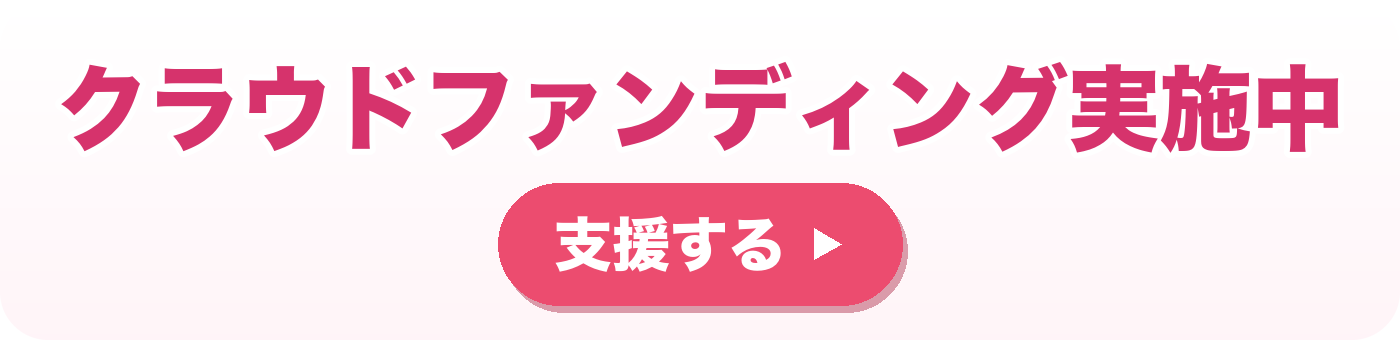
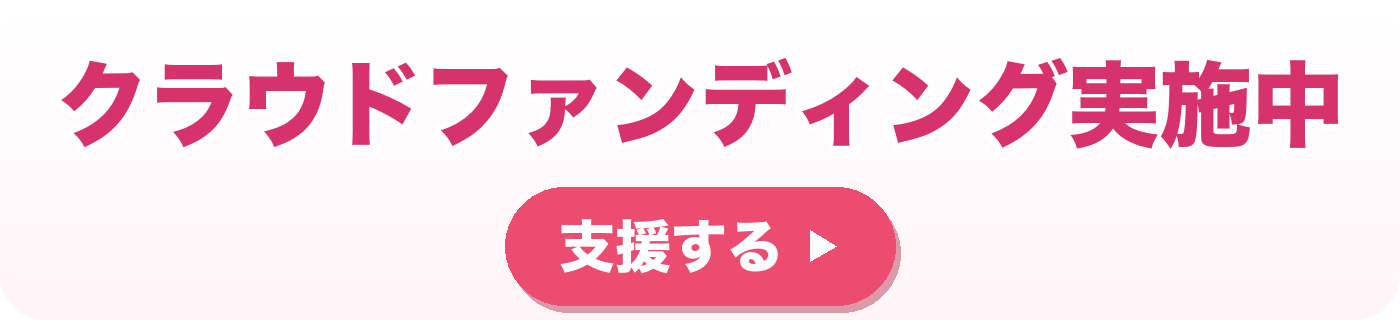
v1.25: タイトル文字間隔を全状態統一／バナー同寸化／広告募集バナー追加／読込エラー表示
- タイトル(しそチャンNET)の文字間隔をem基準(0.077em)に統一。起動画面・ヘッダー・
  縦横どの状態でも同じ間隔（横向きの狭い間隔に合わせ、横がさらに狭くなることもない）
- バナー画像サイズを統一：横向き全て1400x320、縦向き全て2300x210
- 新バナー「バナー広告募集中」を追加（ゴールド地＋白太ゴシック、左右にAI生成の建物写真）
- 番組表が取得できず読み込みが終わらない時：約12秒(4回失敗)後に
  「番組表を読み込めませんでした」＋再読み込みボタン（押すと再取得＝確実）を映像エリアに表示。
  15秒毎に自動再試行し通信回復で自動表示。空データでも再生/描画は破綻しないようガード
- 起動画面 1.24→1.25

diff --git a/index.html b/index.html
@@ -36,7 +36,7 @@ body{background:var(--forest);color:var(--text);font-family:'Zen Kaku Gothic New
 
 /* ══ 電源画面 ══ */
 #power-screen{position:fixed;inset:0;z-index:999;background:var(--forest);display:flex;flex-direction:column;align-items:center;justify-content:center;gap:20px;}
-.ps-logo-main{font-family:'CorpLogoB','Zen Kaku Gothic New',sans-serif;font-size:32px;font-weight:700;color:var(--white);letter-spacing:4px;}
+.ps-logo-main{font-family:'CorpLogoB','Zen Kaku Gothic New',sans-serif;font-size:32px;font-weight:700;color:var(--white);letter-spacing:0.077em;}
 /* NET(英字)はこの書体だとカナより小さく見えるので1.125倍。ベースライン-0.062em下げてカナと高さ(中心)を合わせる */
 .ps-logo-main em{color:var(--gold2);font-style:normal;font-size:1.125em;vertical-align:-0.062em;}
 .ps-version{font-size:11px;color:var(--gold2);letter-spacing:2px;margin-top:12px;font-weight:600;}
@@ -64,7 +64,7 @@ body{background:var(--forest);color:var(--text);font-family:'Zen Kaku Gothic New
 .test-badge{border:1.5px solid var(--gold2);color:var(--gold2);font-size:10px;font-weight:700;letter-spacing:1px;padding:2px 7px;border-radius:4px;white-space:nowrap;background:rgba(0,0,0,0.15);flex-shrink:0;}
 .ps-test-badge{display:inline-block;border:2px solid var(--gold2);color:var(--gold2);font-size:13px;font-weight:700;letter-spacing:2px;padding:5px 16px;border-radius:6px;margin-top:16px;}
 .time-bar{display:none;}
-.h-logo-main{font-family:'CorpLogoB','Zen Kaku Gothic New',sans-serif;font-size:20px;font-weight:700;color:var(--white);letter-spacing:2px;}
+.h-logo-main{font-family:'CorpLogoB','Zen Kaku Gothic New',sans-serif;font-size:20px;font-weight:700;color:var(--white);letter-spacing:0.077em;}
 .h-logo-main em{color:var(--gold2);font-style:normal;font-size:1.125em;vertical-align:-0.062em;}
 .h-right{display:flex;align-items:center;gap:14px;}
 .h-datetime{display:flex;flex-direction:column;align-items:flex-end;}
@@ -132,6 +132,11 @@ body{background:var(--forest);color:var(--text);font-family:'Zen Kaku Gothic New
 .ended-icon{font-size:38px;opacity:0.5;}
 .ended-ttl{font-size:17px;font-weight:700;color:rgba(255,255,255,0.75);letter-spacing:2px;text-align:center;padding:0 20px;}
 .ended-sub{font-size:12px;color:rgba(255,255,255,0.35);letter-spacing:1px;}
+/* 番組表の読み込み中/失敗オーバーレイ＋再読み込みボタン */
+#loaderr-ov{position:absolute;inset:0;z-index:36;background:var(--forest);display:none;flex-direction:column;align-items:center;justify-content:center;gap:12px;padding:0 20px;text-align:center;}
+#loaderr-sub{max-width:340px;line-height:1.7;}
+.reload-btn{margin-top:6px;display:inline-flex;align-items:center;gap:8px;background:var(--gold);color:var(--forest);border:none;cursor:pointer;font-size:16px;font-weight:700;padding:13px 30px;border-radius:6px;font-family:inherit;-webkit-tap-highlight-color:transparent;}
+.reload-btn:active{opacity:0.85;}
 .sw-spinner{width:34px;height:34px;border:3px solid rgba(255,255,255,0.15);border-top-color:var(--gold);border-radius:50%;animation:spin .8s linear infinite;}
 @keyframes spin{to{transform:rotate(360deg)}}
 .sw-lbl{font-size:11px;color:rgba(255,255,255,0.5);letter-spacing:2px;}
@@ -534,7 +539,7 @@ body.fs-open .player-wrap.expanded{
     padding-right:max(10px, env(safe-area-inset-right));
   }
   .h-date{display:none;}
-  .h-logo-main{font-size:13px;letter-spacing:1px;}
+  .h-logo-main{font-size:13px;}
   .h-time{font-size:14px;}
   .onair-badge{padding:2px 6px;font-size:8px;}
   /* ●LIVEと番組タイトルバー：コンパクト表示 */
@@ -784,7 +789,7 @@ body.cursor-hidden,body.cursor-hidden *{cursor:none !important;}
 <div id="power-screen">
   <div style="display:flex;flex-direction:column;align-items:center;gap:0;">
     <div class="ps-logo-main">しそチャン<em>NET</em></div>
-    <div class="ps-version">version 1.24</div>
+    <div class="ps-version">version 1.25</div>
     <div class="ps-test-badge">試験放送中</div>
   </div>
   <div style="height:18px"></div>
@@ -837,6 +842,11 @@ body.cursor-hidden,body.cursor-hidden *{cursor:none !important;}
           <div class="ended-icon">📺</div>
           <div class="ended-ttl">本日の放送は終了しました</div>
           <div class="ended-sub">次の放送は 06:00 から始まります</div>
+        </div>
+        <div id="loaderr-ov">
+          <div class="ended-ttl" id="loaderr-ttl">番組表を読み込み中…</div>
+          <div class="ended-sub" id="loaderr-sub"></div>
+          <button class="reload-btn" id="reload-btn" onclick="location.reload()" style="display:none;"><svg viewBox="0 0 24 24" width="20" height="20" fill="currentColor"><path d="M17.65 6.35A7.96 7.96 0 0012 4a8 8 0 108 8h-2a6 6 0 11-1.76-4.24L13 11h7V4z"/></svg>再読み込み</button>
         </div>
         <div id="sw-ov">
           <div class="sw-spinner"></div>
@@ -975,14 +985,17 @@ function makeBannerCompact(name, tagline, bg, accent, icon){
 }
 
 // 画像バナーをHTMLに（縦=bannerC/横=banner）。?v=でキャッシュ更新
-function imgBanner(src){return '<img src="'+src+'?v=121" alt="" style="width:100%;display:block;border:0">';}
+function imgBanner(src){return '<img src="'+src+'?v=125" alt="" style="width:100%;display:block;border:0">';}
 var SPONSORS=[
   {name:'町家cafe＆ギャラリーさんしょう', url:'https://cafesansyo.com',
-   banner:imgBanner('_banner_sansho_land.jpg'),   // 横向き=2行(写真＋広告＋2行)
-   bannerC:imgBanner('_banner_view.jpg')},        // 縦向き=1行(提供画像)
+   banner:imgBanner('_banner_sansho_land.jpg'),   // 横向き(1400x320)
+   bannerC:imgBanner('_banner_view.jpg')},        // 縦向き(2300x210・提供画像)
   {name:'クラウドファンディング実施中', url:'https://readyfor.jp/projects/shiso-chan',
-   banner:imgBanner('_banner_cf_land.png'),        // 横向き=2行
-   bannerC:imgBanner('_banner_cf_port.png')}       // 縦向き=1行
+   banner:imgBanner('_banner_cf_land.png'),        // 横向き(1400x320)
+   bannerC:imgBanner('_banner_cf_port.png')},      // 縦向き(2300x210)
+  {name:'バナー広告募集中', url:'',                 // リンク先は未設定（クリックで遷移しない）
+   banner:imgBanner('_banner_recruit_land.jpg'),   // 横向き(1400x320)
+   bannerC:imgBanner('_banner_recruit_port.jpg')}  // 縦向き(2300x210)
 ];
 var sponsorIndex=0;
 var _sponsorTimer=null;
@@ -1116,11 +1129,29 @@ function applySchedule(d){
   CS=[];for(var i=0;i<NC;i++)CS.push(S*60+i*CM);
   CO=[];var a=0;for(var j=0;j<CYCLE.length;j++){CO.push(a);a+=CYCLE[j].dur;}
   try{renderSB();}catch(_){}
+  scheduleFailed=false; try{showLoadErr('hide');}catch(_){}
   // 視聴意思がある場合は現在番組へ同期。番組表が未取得のまま放送開始→off-air表示になっていた時も、
   // 番組表が届いた時点で放送時間内なら再生へ復帰する（isOffを解除）。
   if(userWantsPlay&&!isManual){var pos=nowPos();if(pos){isOff=false;playSchedule(pos.c,pos.p);}}
 }
 
+// 番組表の読み込み中/失敗オーバーレイ表示（映像エリア）。state: 'loading'|'error'|'hide'
+var scheduleFailed=false;
+function showLoadErr(state){
+  var ov=document.getElementById('loaderr-ov'); if(!ov)return;
+  if(state==='hide'){ ov.style.display='none'; return; }
+  var eo=document.getElementById('ended-ov'); if(eo)eo.style.display='none';
+  var ttl=document.getElementById('loaderr-ttl'), sub=document.getElementById('loaderr-sub'), btn=document.getElementById('reload-btn');
+  if(state==='error'){
+    ttl.textContent='番組表を読み込めませんでした';
+    sub.textContent='通信環境をご確認のうえ、下のボタンを押すか、アプリを一度終了して再起動してください。';
+    btn.style.display='inline-flex';
+  }else{
+    ttl.textContent='番組表を読み込み中…';
+    sub.textContent=''; btn.style.display='none';
+  }
+  ov.style.display='flex';
+}
 // 取得本体：当日キャッシュ→Firestore(数回リトライ)→期限切れキャッシュ→読み込み中(自動再試行)
 // 番組表は常にFirestoreが正。コード側に固定番組表は持たない。
 function loadRemoteSchedule(){
@@ -1140,7 +1171,8 @@ function loadRemoteSchedule(){
   function useCacheOrWait(){
     // 期限切れでも前回の番組表があればそれを使う（オフライン等）。無ければ読み込み中のまま自動再試行。
     if(cached&&cached.data&&validSchedule(cached.data)===''){ applySchedule(cached.data); }
-    else { try{renderSB();}catch(_){}  setTimeout(function(){attempt=0;tryFetch();}, 15000); }
+    else { scheduleFailed=true; try{renderSB();}catch(_){}  try{showLoadErr('error');}catch(_){}
+           setTimeout(function(){ scheduleFailed=false; try{showLoadErr('loading');}catch(_){} attempt=0; tryFetch(); }, 15000); }
   }
   function tryFetch(){
     attempt++;
@@ -1914,8 +1946,10 @@ function powerOn(){
   document.getElementById('power-screen').style.display='none';
   document.getElementById('main-content').style.display='block';
   userWantsPlay=true;
-  var pos=nowPos();
-  if(pos)playSchedule(pos.c,pos.p);else gotoOffAir();
+  var pos = CYCLE.length ? nowPos() : null;
+  if(!CYCLE.length){ showLoadErr(scheduleFailed?'error':'loading'); } // 番組表未取得:読み込み中/エラー（届き次第applyScheduleで自動再生）
+  else if(pos){ playSchedule(pos.c,pos.p); }
+  else { gotoOffAir(); }
   // iPhoneのみ: ジェスチャーチェーン内でplayVideoを直接呼ぶ
   if(isIOS&&ytPlayer&&ytReady){
     try{ytPlayer.playVideo();}catch(_){}
